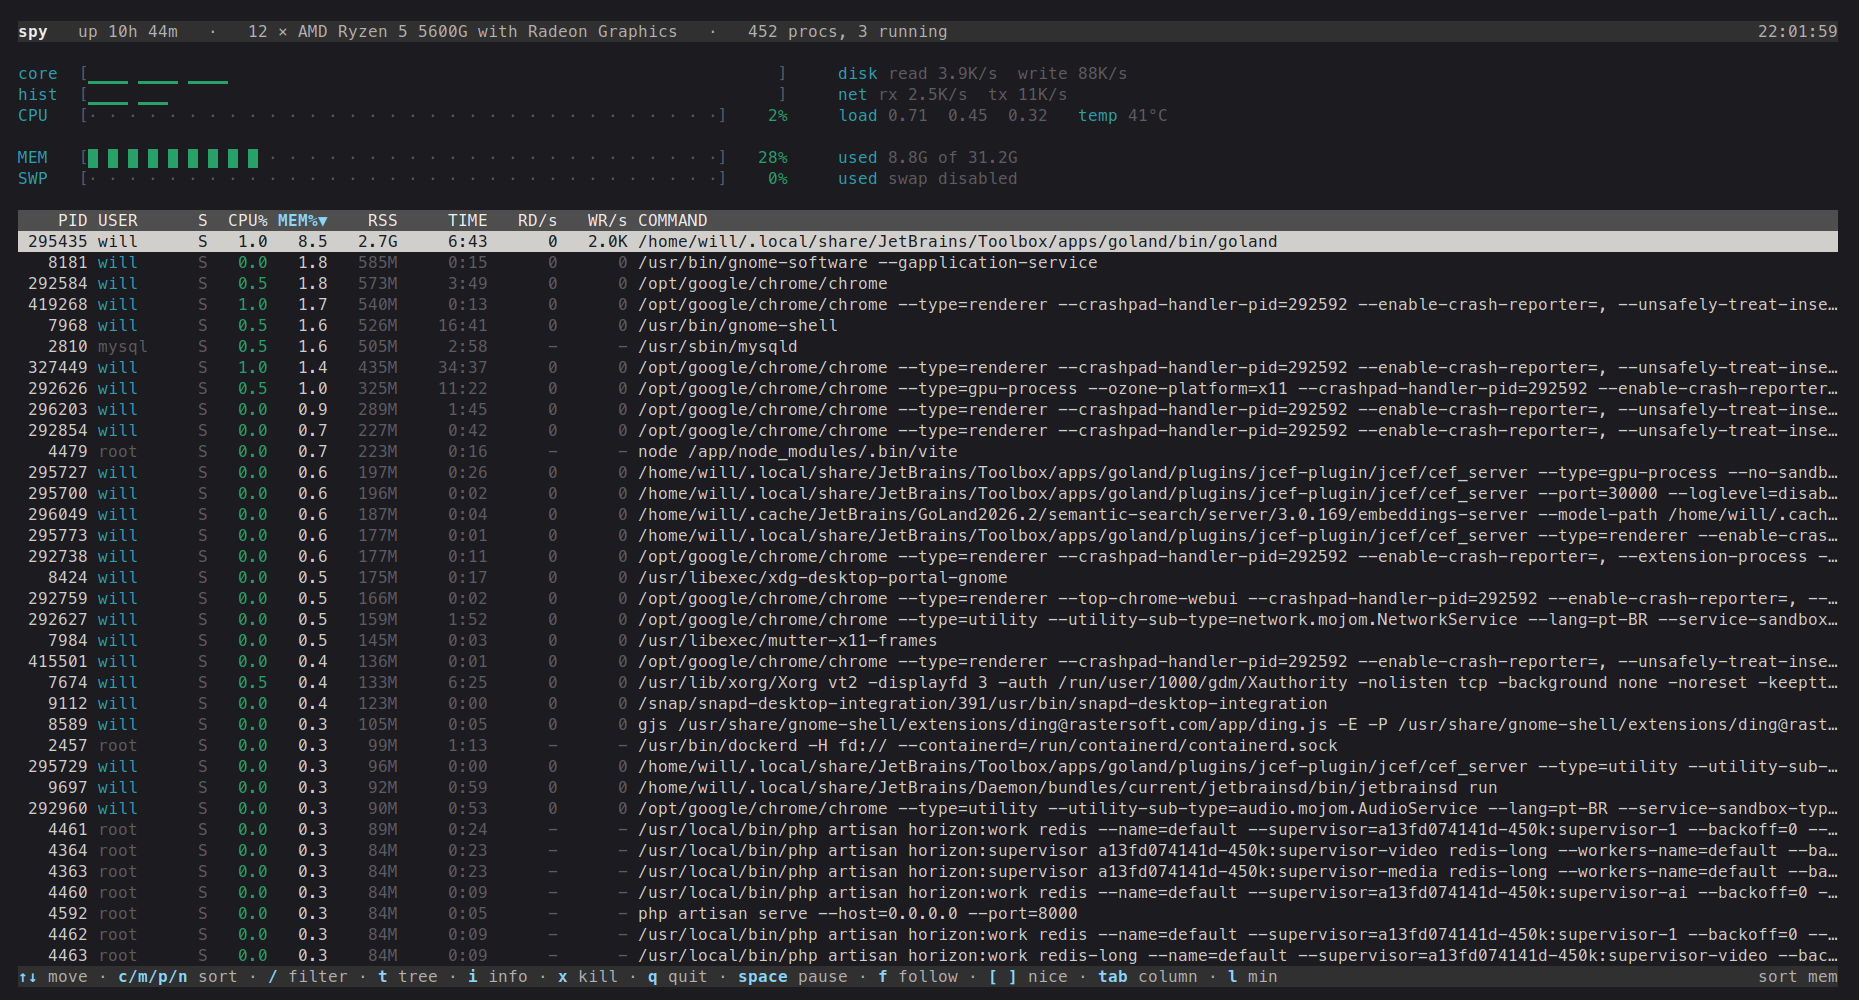
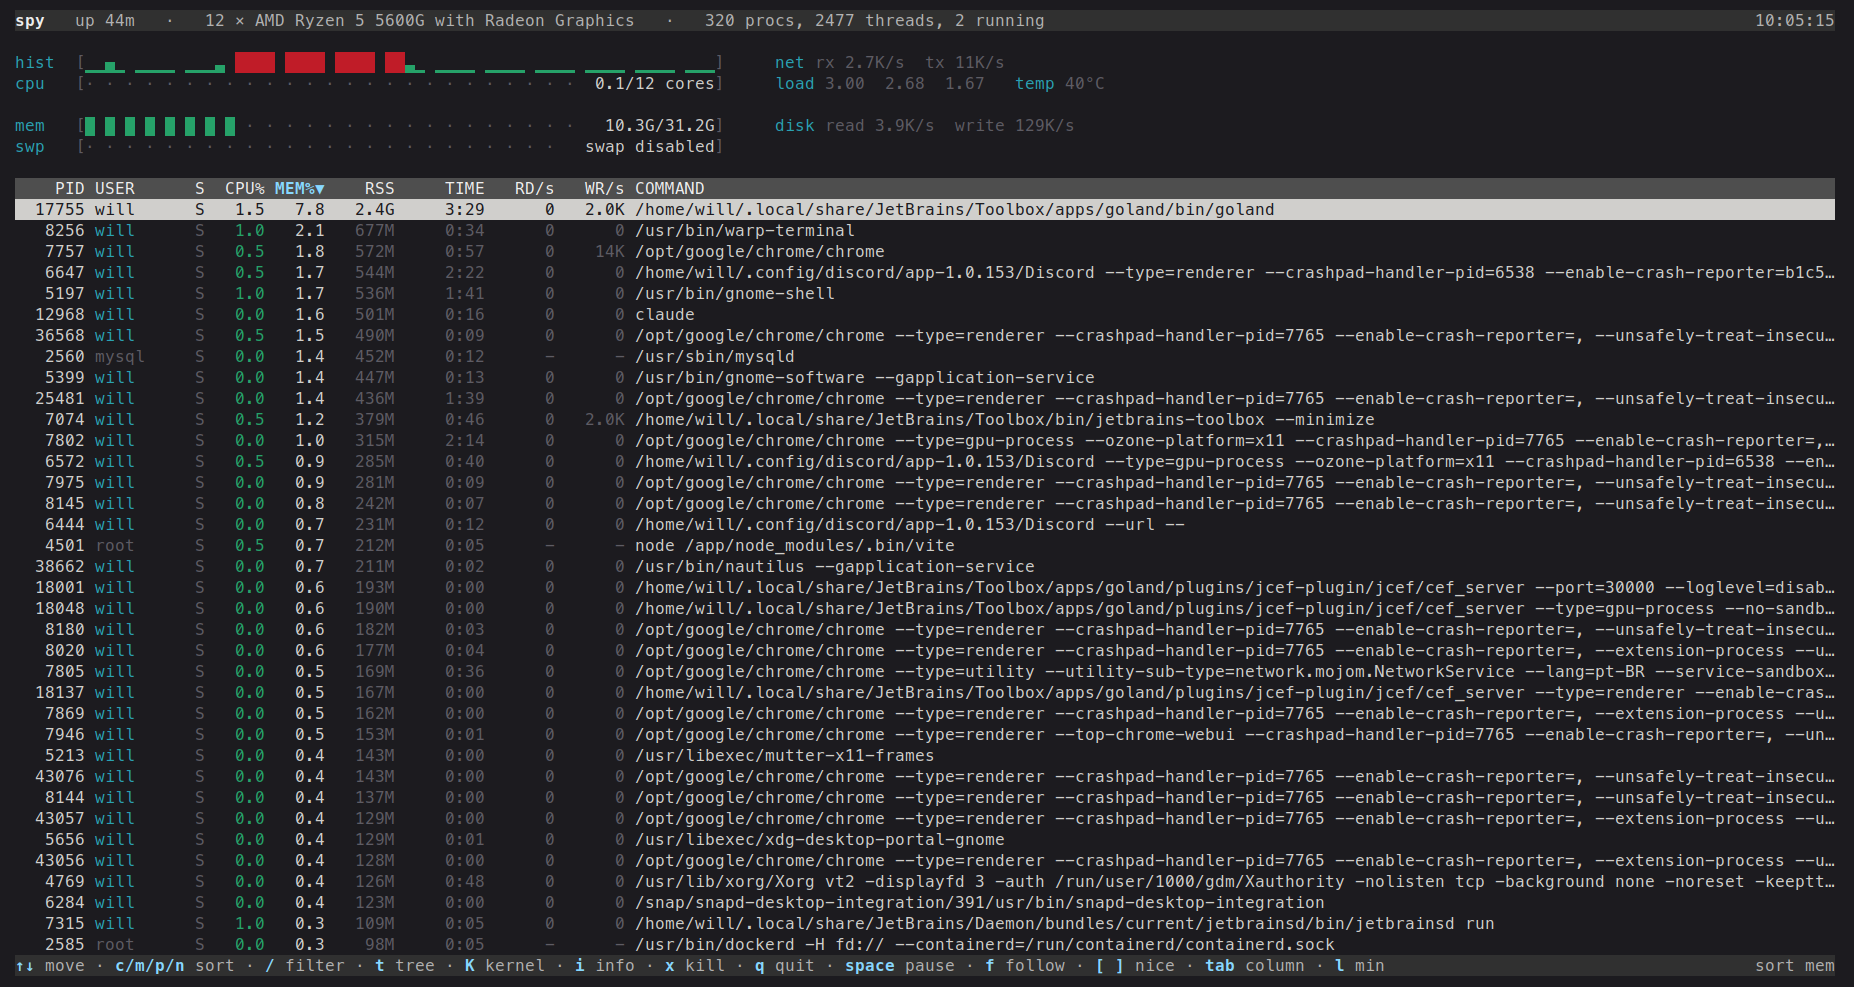
Add kernel thread filtering and tests
- Introduce `filter.hideKernel` flag to toggle visibility of kernel threads.
- Add `K` key to show/hide kernel threads, updating footer and title dynamically.
- Update title to reflect visible rows, excluding hidden threads.
- Extend tests to cover kernel thread visibility, title counts, and filtering logic.
- Refactor and document filtering rules for clarity, including kernel thread behavior.

Changed region(s): [[0.0, 0.0, 1.0, 1.0], [0.9531, 0.0, 0.9838, 0.0608]]

diff --git a/internal/ui/view.go b/internal/ui/view.go
@@ -332,20 +332,32 @@ func (m Model) viewTitle() string {
 	// The gap before the clock is what the details have to fit inside.
 	budget := m.inner() - len("spy") - len(titleGap) - lipgloss.Width(clock) - 1
 
-	// What the processor is has a short form and a long one; the rest of
-	// the details have only themselves. Each is written in the first form
-	// the line still has room for, and the ones after a detail that does
-	// not fit at all are dropped with it.
+	// Two of the details have a short form and a long one: what the
+	// processor is, and how much is running on it. Each is written in the
+	// first form the line still has room for, and the ones after a detail
+	// that does not fit at all are dropped with it.
 	cores := []string{fmt.Sprintf("%d cores", len(snap.CPU.Cores))}
 	if snap.CPU.Model != "" {
 		cores = append([]string{fmt.Sprintf("%d × %s", len(snap.CPU.Cores), snap.CPU.Model)}, cores...)
+	}
+
+	// The threads are what the kernel counts and what the run queue is
+	// drawn from, so they belong between the processes holding them and
+	// the few of them on a core right now. A kernel that does not report
+	// them leaves the count at zero, and the line goes without. The
+	// processes are the rows on the screen, not every pid on the machine:
+	// what the table is not showing is not what the title is counting.
+	tasks := []string{fmt.Sprintf("%d procs, %d running", len(m.rows), snap.Load.Running)}
+	if snap.Load.Total > 0 {
+		tasks = append([]string{fmt.Sprintf("%d procs, %d threads, %d running",
+			len(m.rows), snap.Load.Total, snap.Load.Running)}, tasks...)
 	}
 
 	var shown []string
 	for _, forms := range [][]string{
 		{"up " + formatUptime(snap.Uptime)},
 		cores,
-		{fmt.Sprintf("%d procs, %d running", len(snap.Processes), snap.Load.Running)},
+		tasks,
 	} {
 		sep := 0
 		if len(shown) > 0 {
@@ -775,6 +787,9 @@ func (m Model) viewFooter() string {
 	if m.tree {
 		state += " · tree"
 	}
+	if !m.filter.hideKernel {
+		state += " · kernel"
+	}
 	if m.follow != 0 {
 		state += fmt.Sprintf(" · following %d", m.follow)
 	}
@@ -810,6 +825,7 @@ var helpHints = []struct{ key, label string }{
 	{"c/m/p/n", "sort"},
 	{"/", "filter"},
 	{"t", "tree"},
+	{"K", "kernel"},
 	{"i", "info"},
 	{"x", "kill"},
 	{"q", "quit"},

diff --git a/internal/ui/model_test.go b/internal/ui/model_test.go
@@ -36,6 +36,56 @@ func press(t *testing.T, m Model, keys ...string) Model {
 	return m
 }
 
+// TestKShowsTheKernelThreads covers the one key that puts rows back on the
+// screen: the monitor starts without the kernel's threads, K asks for them
+// and asks again to be rid of them.
+func TestKShowsTheKernelThreads(t *testing.T) {
+	m := testModel(t, withKernel())
+	if !m.filter.hideKernel {
+		t.Fatal("the monitor should start with the kernel threads hidden")
+	}
+	if len(m.rows) != 4 {
+		t.Errorf("table starts with %d rows, want the 4 that are not the kernel's", len(m.rows))
+	}
+
+	m = press(t, m, "K")
+	if m.filter.hideKernel {
+		t.Error("K should show the kernel threads")
+	}
+	if len(m.rows) != 6 {
+		t.Errorf("table has %d rows after K, want all 6", len(m.rows))
+	}
+	// A table showing more than it was asked for has to say so.
+	if footer := m.viewFooter(); !strings.Contains(footer, "kernel") {
+		t.Errorf("footer = %q, want it to say the kernel threads are showing", footer)
+	}
+
+	m = press(t, m, "K")
+	if !m.filter.hideKernel || len(m.rows) != 4 {
+		t.Errorf("K again should hide them: hidden = %v, %d rows", m.filter.hideKernel, len(m.rows))
+	}
+	if footer := m.viewFooter(); strings.Contains(footer, "· kernel") {
+		t.Errorf("footer = %q, want nothing about the kernel threads once they are hidden", footer)
+	}
+}
+
+// TestTitleCountsWhatIsOnTheScreen covers the procs figure in the title: it
+// is the rows the table is drawing, not every pid on the machine, so the
+// kernel threads leave the count along with the rows.
+func TestTitleCountsWhatIsOnTheScreen(t *testing.T) {
+	m := testModel(t, withKernel())
+	m.width = 160
+	m.snap.Load.Total, m.snap.Load.Running = 1234, 3
+
+	if title := m.viewTitle(); !strings.Contains(title, "4 procs") {
+		t.Errorf("title = %q, want the four rows on the screen", title)
+	}
+	m = press(t, m, "K")
+	if title := m.viewTitle(); !strings.Contains(title, "6 procs") {
+		t.Errorf("title = %q, want all six once the kernel threads are showing", title)
+	}
+}
+
 func TestNewRejectsUnknownSortColumn(t *testing.T) {
 	if _, err := New(nil, Options{Sort: "disk"}); err == nil {
 		t.Error("want an error for an unknown sort column")

diff --git a/internal/ui/style_test.go b/internal/ui/style_test.go
@@ -345,6 +345,53 @@ func TestHeaderWithoutASensorSaysNothing(t *testing.T) {
 	}
 }
 
+// TestTitleCountsTheThreads covers what the title says is running: the
+// processes, the threads the kernel counts inside them, and the few of
+// those on a core right now. The threads are the first of the three to go
+// on a line with no room for all of them.
+func TestTitleCountsTheThreads(t *testing.T) {
+	for _, c := range []struct {
+		width int
+		want  string
+	}{
+		{160, "4 procs, 1234 threads, 3 running"},
+		{120, "4 procs, 1234 threads, 3 running"},
+		{80, "4 procs, 3 running"},
+	} {
+		t.Run(fmt.Sprint(c.width), func(t *testing.T) {
+			m := loaded(t)
+			m.width = c.width
+			m.snap.Load.Running, m.snap.Load.Total = 3, 1234
+			if title := m.viewTitle(); !strings.Contains(title, c.want) {
+				t.Errorf("title = %q, want it to hold %q", title, c.want)
+			}
+		})
+	}
+
+	// Narrower than either form, and the counts go rather than wrap.
+	m := loaded(t)
+	m.width = 64
+	m.snap.Load.Running, m.snap.Load.Total = 3, 1234
+	if title := m.viewTitle(); strings.Contains(title, "procs") {
+		t.Errorf("title = %q, want the counts dropped at 64 columns", title)
+	}
+}
+
+// TestTitleWithoutAThreadCount covers the kernel that does not report one:
+// the title says what it knows and leaves the rest out.
+func TestTitleWithoutAThreadCount(t *testing.T) {
+	m := loaded(t)
+	m.width = 160
+	m.snap.Load.Running, m.snap.Load.Total = 3, 0
+	title := m.viewTitle()
+	if !strings.Contains(title, "4 procs, 3 running") {
+		t.Errorf("title = %q, want the counts it does have", title)
+	}
+	if strings.Contains(title, "threads") {
+		t.Errorf("title = %q, want no thread count at all", title)
+	}
+}
+
 // TestTitleNamesTheProcessorWhileItFits covers the one detail with two
 // forms: the model is worth the room when there is room, and the count of
 // cores is what is left when there is not.

diff --git a/internal/ui/rows_test.go b/internal/ui/rows_test.go
@@ -22,6 +22,46 @@ func sample() []proc.Process {
 	}
 }
 
+// withKernel is a snapshot with the kernel's own threads in it: kthreadd
+// and one of the workers it spawns, alongside the processes someone
+// started.
+func withKernel() []proc.Process {
+	return append(sample(),
+		proc.Process{PID: 2, PPID: 0, User: "root", Command: "kthreadd", Kernel: true},
+		proc.Process{PID: 30, PPID: 2, User: "root", Command: "kworker/3:1", Kernel: true},
+	)
+}
+
+// TestKernelThreadsAreHiddenUntilAsked covers the rows the table leaves out
+// by default: the kernel's bookkeeping, which holds no memory and is not
+// work anyone started. Tree mode drops them too, kthreadd and the workers
+// under it together.
+func TestKernelThreadsAreHiddenUntilAsked(t *testing.T) {
+	for _, tree := range []bool{false, true} {
+		name := "flat"
+		if tree {
+			name = "tree"
+		}
+		t.Run(name, func(t *testing.T) {
+			hidden := pids(buildRows(withKernel(), sortPID, false, filter{hideKernel: true}, tree))
+			if len(hidden) != 4 {
+				t.Errorf("table has %d rows, want the 4 that are not the kernel's: %v", len(hidden), hidden)
+			}
+			for _, pid := range hidden {
+				if pid == 2 || pid == 30 {
+					t.Errorf("pid %d is a kernel thread and should be hidden: %v", pid, hidden)
+				}
+			}
+
+			shown := pids(buildRows(withKernel(), sortPID, false, filter{}, tree))
+			if len(shown) != 6 {
+				t.Errorf("table has %d rows with the kernel threads asked for, want all 6: %v",
+					len(shown), shown)
+			}
+		})
+	}
+}
+
 func pids(rows []row) []int {
 	out := make([]int, len(rows))
 	for i, r := range rows {

diff --git a/internal/ui/rows.go b/internal/ui/rows.go
@@ -15,20 +15,28 @@ type row struct {
 }
 
 // filter decides which processes reach the table: a text match against the
-// command, the owner or the pid, plus the numeric floors below which a
-// process is not worth showing. The zero value keeps everything.
+// command, the owner or the pid, the numeric floors below which a process
+// is not worth showing, and whether the kernel's own threads are among
+// them. The zero value keeps everything; the monitor starts with the
+// kernel threads hidden, which is what hideKernel is for.
 type filter struct {
-	text string
-	min  thresholds
+	text       string
+	min        thresholds
+	hideKernel bool
 }
 
 // empty reports whether the filter lets every process through.
 func (f filter) empty() bool {
-	return f.text == "" && f.min == (thresholds{})
+	return f.text == "" && f.min == (thresholds{}) && !f.hideKernel
 }
 
-// matches reports whether a process satisfies both halves of the filter.
+// matches reports whether a process satisfies every part of the filter.
+// The kernel threads go first: they are hidden for being what they are,
+// not for what they are doing, so nothing they hold matters after that.
 func (f filter) matches(p proc.Process) bool {
+	if f.hideKernel && p.Kernel {
+		return false
+	}
 	return f.min.keeps(p) && f.matchesText(p)
 }
 

diff --git a/internal/ui/model.go b/internal/ui/model.go
@@ -120,9 +120,12 @@ func New(c *proc.Collector, opts Options) (Model, error) {
 		me:        currentUser(),
 		sort:      key,
 		tree:      opts.Tree,
-		filter:    filter{text: opts.Filter, min: min},
-		width:     80,
-		height:    24,
+		// The kernel's own threads are bookkeeping, not work anyone
+		// started: two in five of the rows on a busy machine, none of
+		// them holding memory. They are hidden until K asks for them.
+		filter: filter{text: opts.Filter, min: min, hideKernel: true},
+		width:  80,
+		height: 24,
 	}, nil
 }
 
@@ -267,6 +270,9 @@ func (m Model) handleKey(msg tea.KeyMsg) (tea.Model, tea.Cmd) {
 
 	case "t":
 		m.tree = !m.tree
+		m.rebuild()
+	case "K":
+		m.filter.hideKernel = !m.filter.hideKernel
 		m.rebuild()
 	case " ":
 		// Holding the screen still is the only way to read a busy table:

diff --git a/CLAUDE.md b/CLAUDE.md
@@ -41,8 +41,14 @@ library.
   and has no detail on its right at all, so it is not counted in `gaugeCells`.
 - Errors from a failed refresh are shown in the footer, never fatal: the last good
   snapshot stays on screen.
-- `viewRow` marks how relevant a process is: kernel threads (`proc.Process.Kernel`)
-  are dimmed whole, the reader's own account is colored apart from the others, the
+- Kernel threads (`proc.Process.Kernel`) are hidden: they are two in five of the pids
+  on a busy machine, hold no memory and are nobody's work. `filter.hideKernel` is what
+  drops them, `K` puts them back, and the footer says so while they are up. The zero
+  `filter` still keeps everything — the default is set in `New`.
+- The title counts the rows on the screen, not the pids on the machine, so what the
+  table is not showing is not in the count either.
+- `viewRow` marks how relevant a process is: a kernel thread, when one is on screen,
+  is dimmed whole, the reader's own account is colored apart from the others, the
   state letter carries the anomalies and an `active` process gets a bold command.
 - The title, the column titles and the footer are filled bars. Every style used
   inside one carries its background (`styleBar*`, `styleColumns*`) and the line is
